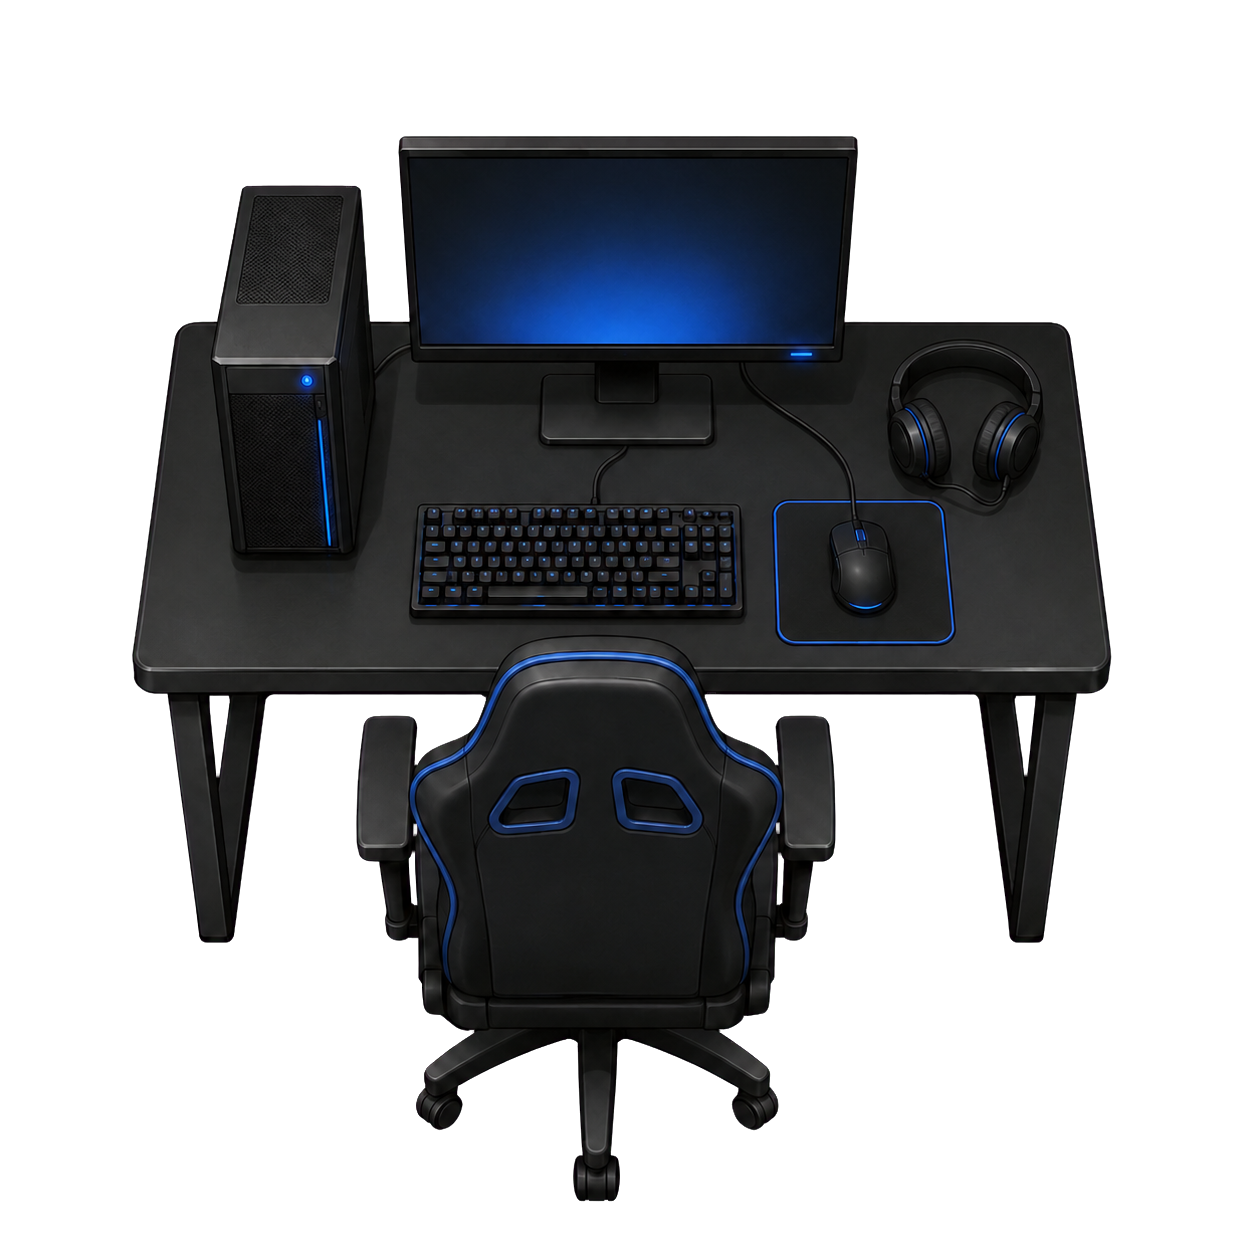
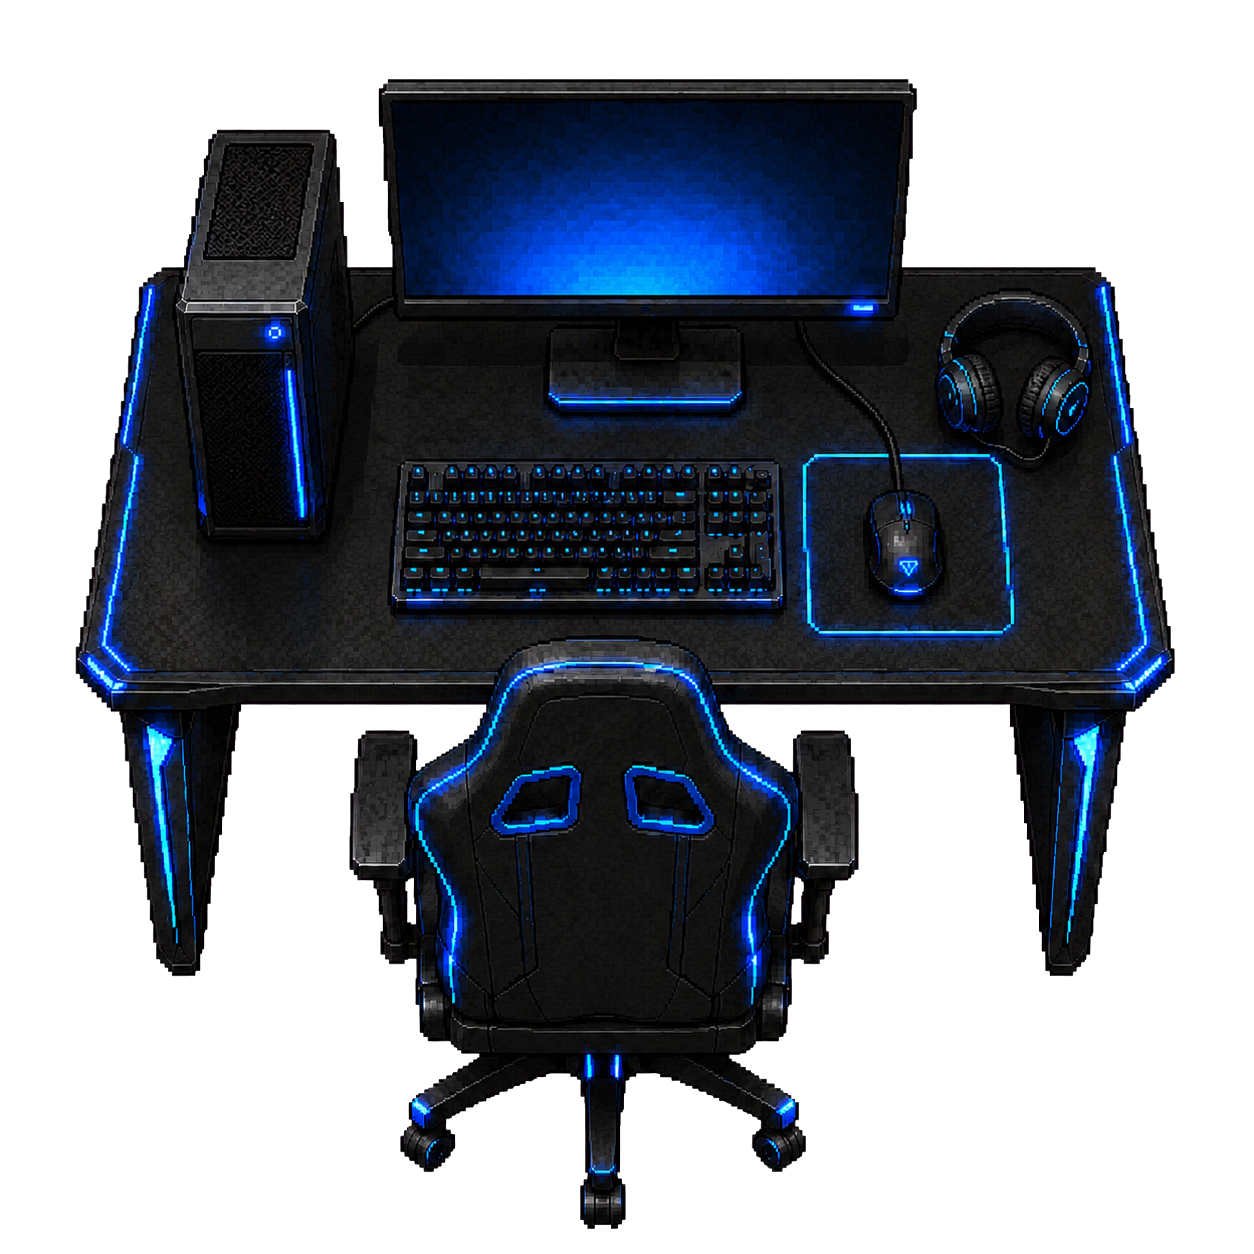
Add pixel workstation and reception art

diff --git a/Assets/Editor/LayoutFixSmokeTest.cs b/Assets/Editor/LayoutFixSmokeTest.cs
@@ -49,6 +49,7 @@ public static class LayoutFixSmokeTest
         AssertNoRoomPCOverlap();
         AssertPCCollidersAreTriggers();
         AssertTableGapsAreWideEnough();
+        AssertReceptionVisual();
         AssertRoomNavigation(navigation);
         AssertNoDuplicateRuntimeObjects();
     }
@@ -125,6 +126,38 @@ public static class LayoutFixSmokeTest
         if (lowerGap < 1.4f)
         {
             throw new InvalidOperationException($"Lower aisle is too narrow: {lowerGap:F2}");
+        }
+    }
+
+    private static void AssertReceptionVisual()
+    {
+        GameObject reception = RequireObject("AdministratorDesk");
+        SpriteRenderer renderer = reception.GetComponent<SpriteRenderer>();
+        BoxCollider2D collider = reception.GetComponent<BoxCollider2D>();
+
+        if (reception.GetComponent<ReceptionVisualPresenter>() == null ||
+            renderer == null ||
+            renderer.sprite == null ||
+            renderer.sprite.name != "ReceptionSprite")
+        {
+            throw new InvalidOperationException(
+                "Administrator reception sprite was not created."
+            );
+        }
+
+        if (renderer.sprite.texture.filterMode != FilterMode.Point)
+        {
+            throw new InvalidOperationException(
+                "Administrator reception sprite is not using pixel filtering."
+            );
+        }
+
+        if (collider == null ||
+            Vector2.Distance(collider.size, new Vector2(3.2f, 1.1f)) > 0.01f)
+        {
+            throw new InvalidOperationException(
+                "Administrator reception collider changed with the new visual."
+            );
         }
     }
 

diff --git a/Assets/Scripts/Visual/ReceptionVisualPresenter.cs b/Assets/Scripts/Visual/ReceptionVisualPresenter.cs
@@ -1,0 +1,57 @@
+using UnityEngine;
+
+[RequireComponent(typeof(SpriteRenderer))]
+public sealed class ReceptionVisualPresenter : MonoBehaviour
+{
+    private const string ResourcePath = "World/Reception";
+    private const float PixelsPerUnit = 330f;
+
+    private SpriteRenderer spriteRenderer;
+    private Sprite receptionSprite;
+
+    private void Awake()
+    {
+        ApplyVisual();
+    }
+
+    private void OnDestroy()
+    {
+        if (receptionSprite != null)
+        {
+            Destroy(receptionSprite);
+        }
+    }
+
+    public void ApplyVisual()
+    {
+        spriteRenderer ??= GetComponent<SpriteRenderer>();
+
+        if (receptionSprite == null)
+        {
+            Texture2D texture = Resources.Load<Texture2D>(ResourcePath);
+            if (texture == null)
+            {
+                Debug.LogWarning(
+                    $"Reception sprite was not found: {ResourcePath}."
+                );
+                return;
+            }
+
+            texture.wrapMode = TextureWrapMode.Clamp;
+            texture.filterMode = FilterMode.Point;
+            receptionSprite = Sprite.Create(
+                texture,
+                new Rect(0f, 0f, texture.width, texture.height),
+                new Vector2(0.5f, 0.5f),
+                PixelsPerUnit,
+                0,
+                SpriteMeshType.FullRect
+            );
+            receptionSprite.name = "ReceptionSprite";
+        }
+
+        spriteRenderer.sprite = receptionSprite;
+        spriteRenderer.color = Color.white;
+        YSortRenderer.SetSortingLayer(spriteRenderer, "World");
+    }
+}

diff --git a/Assets/Scripts/World/ClubLayoutBuilder.cs b/Assets/Scripts/World/ClubLayoutBuilder.cs
@@ -214,13 +214,23 @@ public sealed class ClubLayoutBuilder : MonoBehaviour
 
     private void CreateAdminDesk(Transform parent)
     {
-        CreateObstacle(
+        Vector2 deskSize = new(3.2f, 1.1f);
+        GameObject desk = CreateObstacle(
             "AdministratorDesk",
             parent,
             new Vector3(-4.8f, 3.1f, 0f),
-            new Vector2(3.2f, 1.1f),
+            deskSize,
             deskColor
         );
+
+        desk.transform.localScale = Vector3.one;
+        BoxCollider2D collider = desk.GetComponent<BoxCollider2D>();
+        collider.size = deskSize;
+
+        ReceptionVisualPresenter presenter =
+            desk.GetComponent<ReceptionVisualPresenter>() ??
+            desk.AddComponent<ReceptionVisualPresenter>();
+        presenter.ApplyVisual();
     }
 
     private void CreatePCTables(Transform parent)
@@ -445,7 +455,7 @@ public sealed class ClubLayoutBuilder : MonoBehaviour
         );
     }
 
-    private void CreateObstacle(
+    private GameObject CreateObstacle(
         string objectName,
         Transform parent,
         Vector3 position,
@@ -473,6 +483,8 @@ public sealed class ClubLayoutBuilder : MonoBehaviour
         {
             obstacle.AddComponent<BoxCollider2D>();
         }
+
+        return obstacle;
     }
 
     private GameObject CreateVisualObject(

diff --git a/Assets/Editor/ManagerModeSmokeTest.cs b/Assets/Editor/ManagerModeSmokeTest.cs
@@ -193,6 +193,8 @@ public static class ManagerModeSmokeTest
         Require(workstationRenderer != null &&
                 workstationRenderer.sprite != null,
             "PC_01 tier workstation sprite was not loaded.");
+        Require(workstationRenderer.sprite.texture.filterMode == FilterMode.Point,
+            "PC workstation sprite is not using pixel filtering.");
         PC visualPC = pcObject.GetComponent<PC>();
         Require(workstationRenderer.sprite.name.Contains("Basic"),
             "PC_01 did not start with the Basic workstation sprite.");

diff --git a/Assets/Scripts/Visual/PCVisualPresenter.cs b/Assets/Scripts/Visual/PCVisualPresenter.cs
@@ -193,7 +193,7 @@ public sealed class PCVisualPresenter : MonoBehaviour,
         }
 
         texture.wrapMode = TextureWrapMode.Clamp;
-        texture.filterMode = FilterMode.Bilinear;
+        texture.filterMode = FilterMode.Point;
         workstationSprite = Sprite.Create(
             texture,
             new Rect(0f, 0f, texture.width, texture.height),
